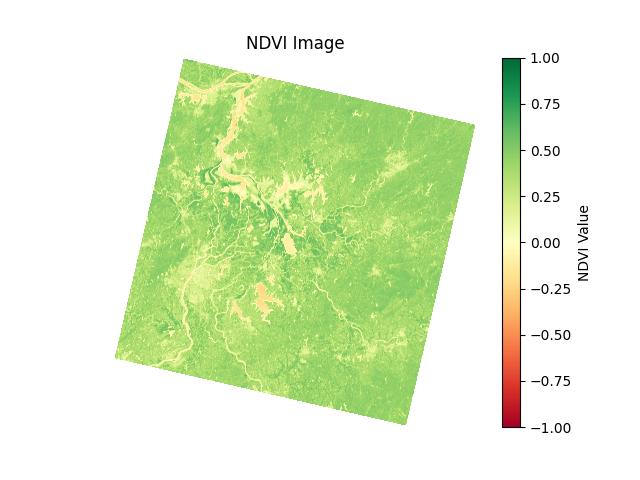
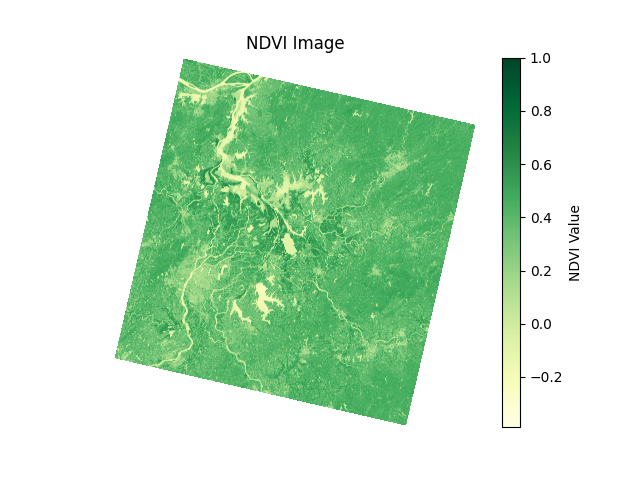
学习了03-NDVI-Calculation

diff --git a/01-Foundation/01-Raster-IO-with-GDAL/code/gdal_processing_visualization.py b/01-Foundation/01-Raster-IO-with-GDAL/code/gdal_processing_visualization.py
@@ -3,7 +3,7 @@ import numpy as np
 import matplotlib.pyplot as plt
 
 # 读取红绿蓝波段
-raster_path = r"Remote-Sensing-Learning-Journey\01-Foundationdata\LC09_L1TP_121040_20250827_20250828_02_T1\LC09_L1TP_121040_20250827_20250828_02_T1_B{}.TIF"
+raster_path = r"Remote-Sensing-Learning-Journey\01-Foundation\data\LC09_L1TP_121040_20250827_20250828_02_T1\LC09_L1TP_121040_20250827_20250828_02_T1_B{}.TIF"
 red_band = gdal.Open(raster_path.format(4)).ReadAsArray()
 red_band = red_band.astype(float)
 green_band = gdal.Open(raster_path.format(3)).ReadAsArray()
@@ -37,14 +37,14 @@ def ndvi_calculation(red_band, raster_path):
     ndvi = np.clip(ndvi, -1, 1)  # 限制NDVI值在-1到1之间
 
     # 显示NDVI图像
-    plt.imshow(ndvi, cmap='RdYlGn', vmax=1, vmin=-1)
+    plt.imshow(ndvi, cmap='YlGn')
     plt.colorbar(label='NDVI Value')
     plt.axis('off')
     plt.title('NDVI Image')
     plt.show()  
 
     # 保存NDVI图像
-#    plt.imsave(r'Remote-Sensing-Learning-Journey\01-Foundation\01-Raster-IO-with-GDAL\rawresults\ndvi_image.png', ndvi, cmap='RdYlGn', vmin=-1, vmax=1)
+    plt.imsave(r'Remote-Sensing-Learning-Journey\01-Foundation\01-Raster-IO-with-GDAL\rawresults\ndvi_image.png', ndvi, cmap='YlGn', vmin=-1, vmax=1)
 
 # 调试
 ndvi_calculation(red_band, raster_path)

diff --git a/01-Foundation/03-NDVI-Calculation/code/ndvi_calculation.py b/01-Foundation/03-NDVI-Calculation/code/ndvi_calculation.py
@@ -1,0 +1,23 @@
+import numpy as np
+from osgeo import gdal
+import matplotlib.pyplot as plt
+from matplotlib.colors import ListedColormap, BoundaryNorm
+
+raster_path = r"Remote-Sensing-Learning-Journey\01-Foundation\Post-processing data\B{}_ref.tif"
+
+NIR_band = gdal.Open(raster_path.format(5)).ReadAsArray().astype(np.float32)
+RED_band = gdal.Open(raster_path.format(4)).ReadAsArray().astype(np.float32)
+
+ADD_band = NIR_band + RED_band
+ADD_band_mask = np.ma.masked_where(ADD_band == 0, ADD_band)
+ndvi = (NIR_band - RED_band)/(ADD_band_mask)
+ndvi.filled(0)
+
+ndvi = np.clip(ndvi, -1, 1)
+
+plt.imshow(ndvi, cmap= 'YlGn')
+plt.colorbar(label='NDVI Value')
+plt.axis('off')
+plt.title('NDVI Image')
+plt.show()
+plt.imsave(r'Remote-Sensing-Learning-Journey\01-Foundation\03-NDVI-Calculation\rawresults\ndvi_image.png', ndvi, cmap= 'YlGn')
